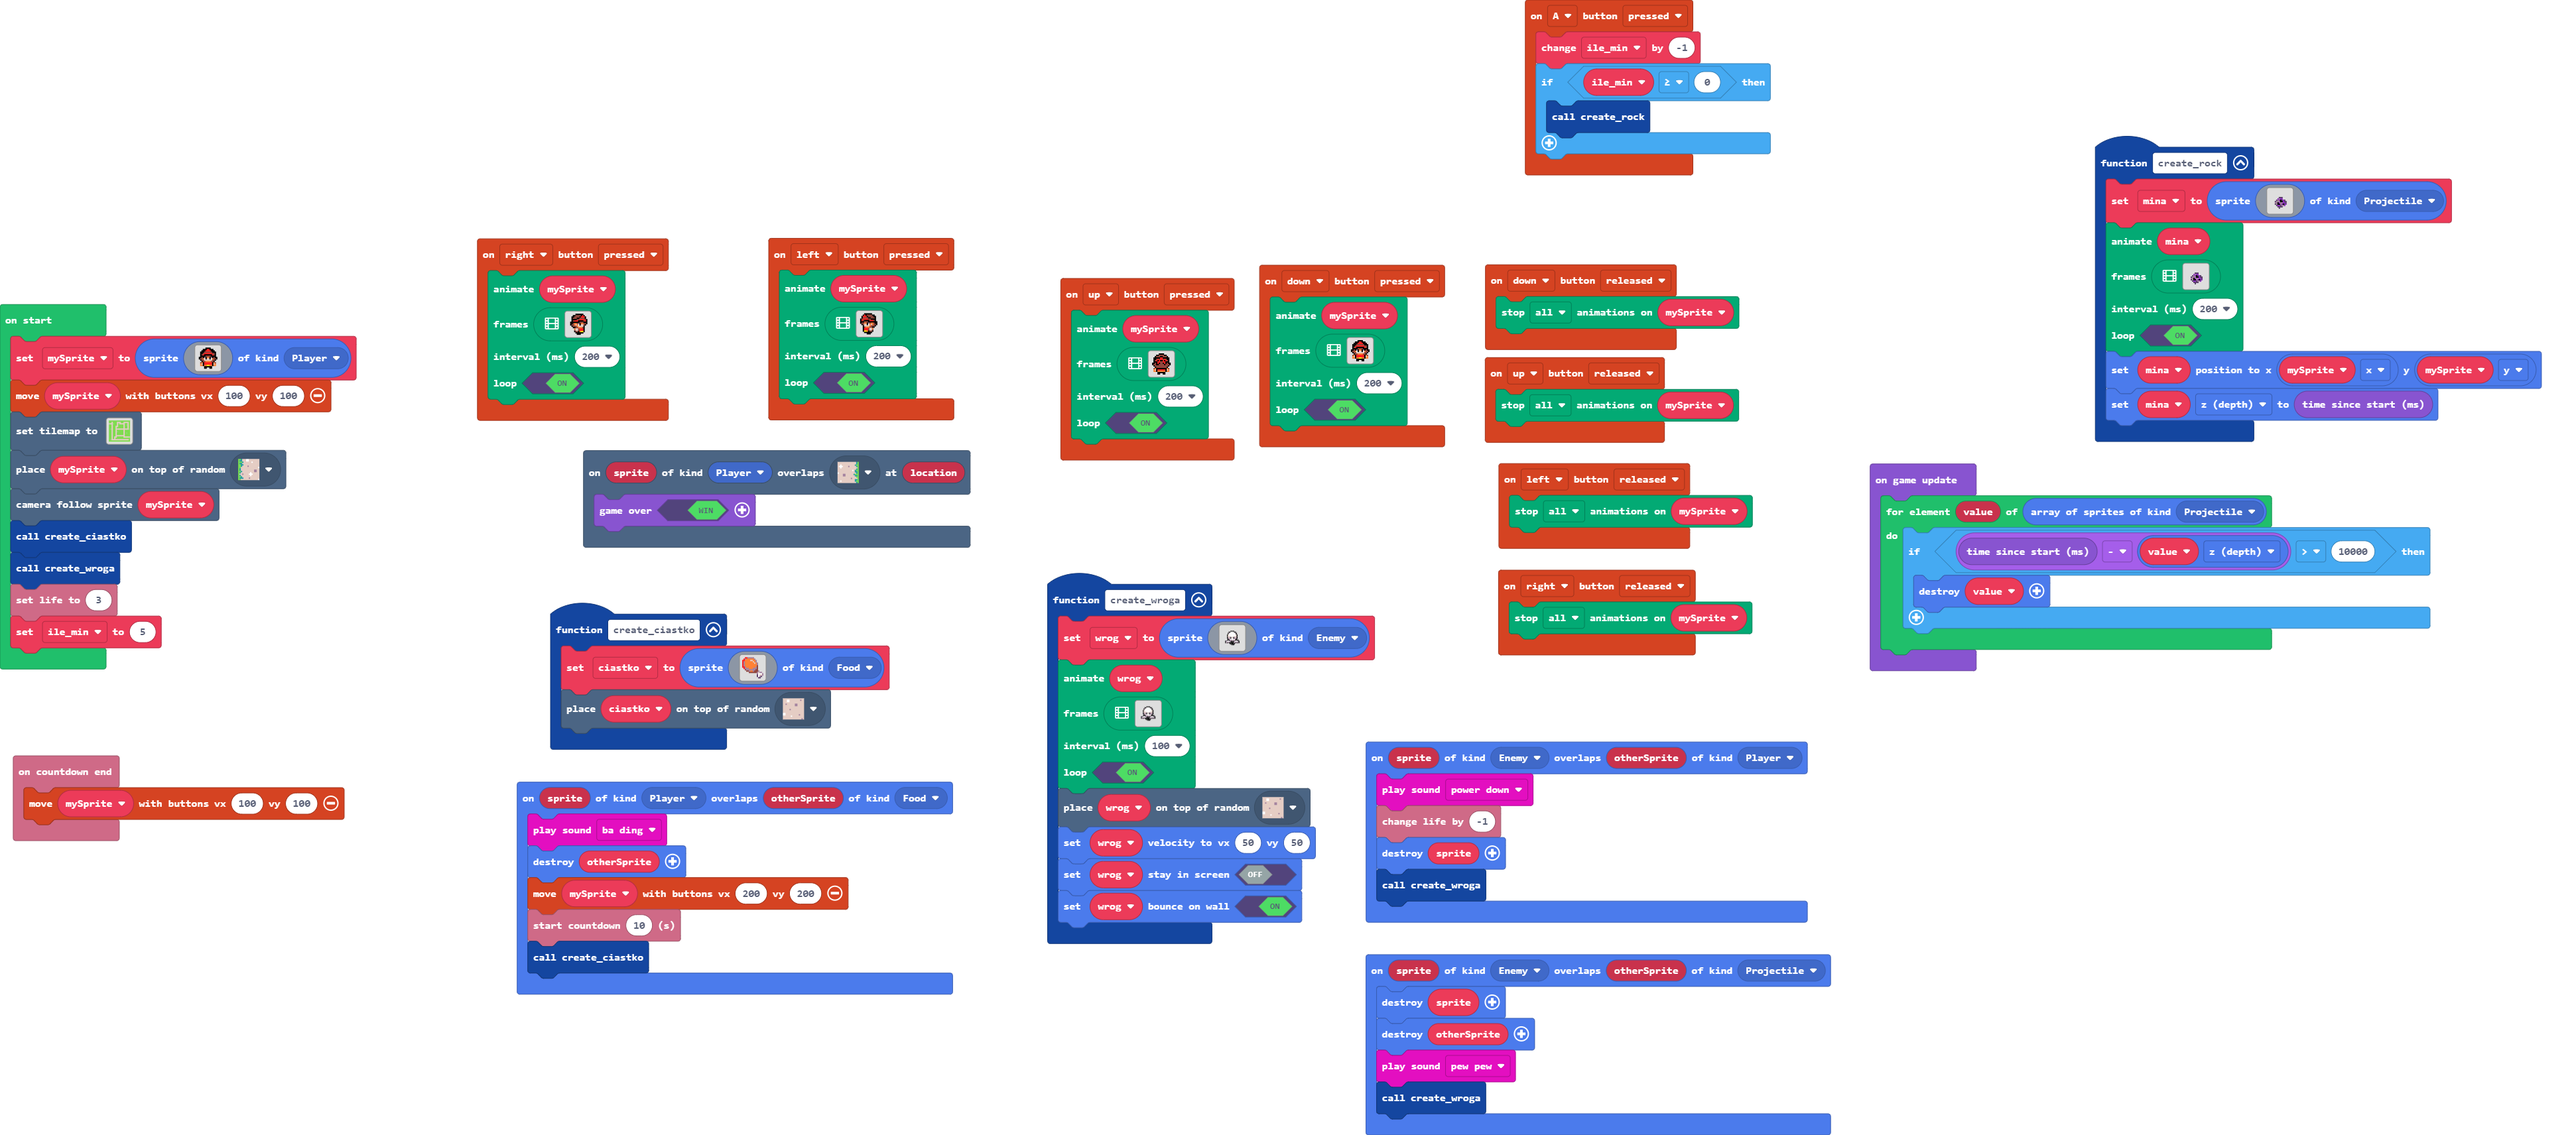
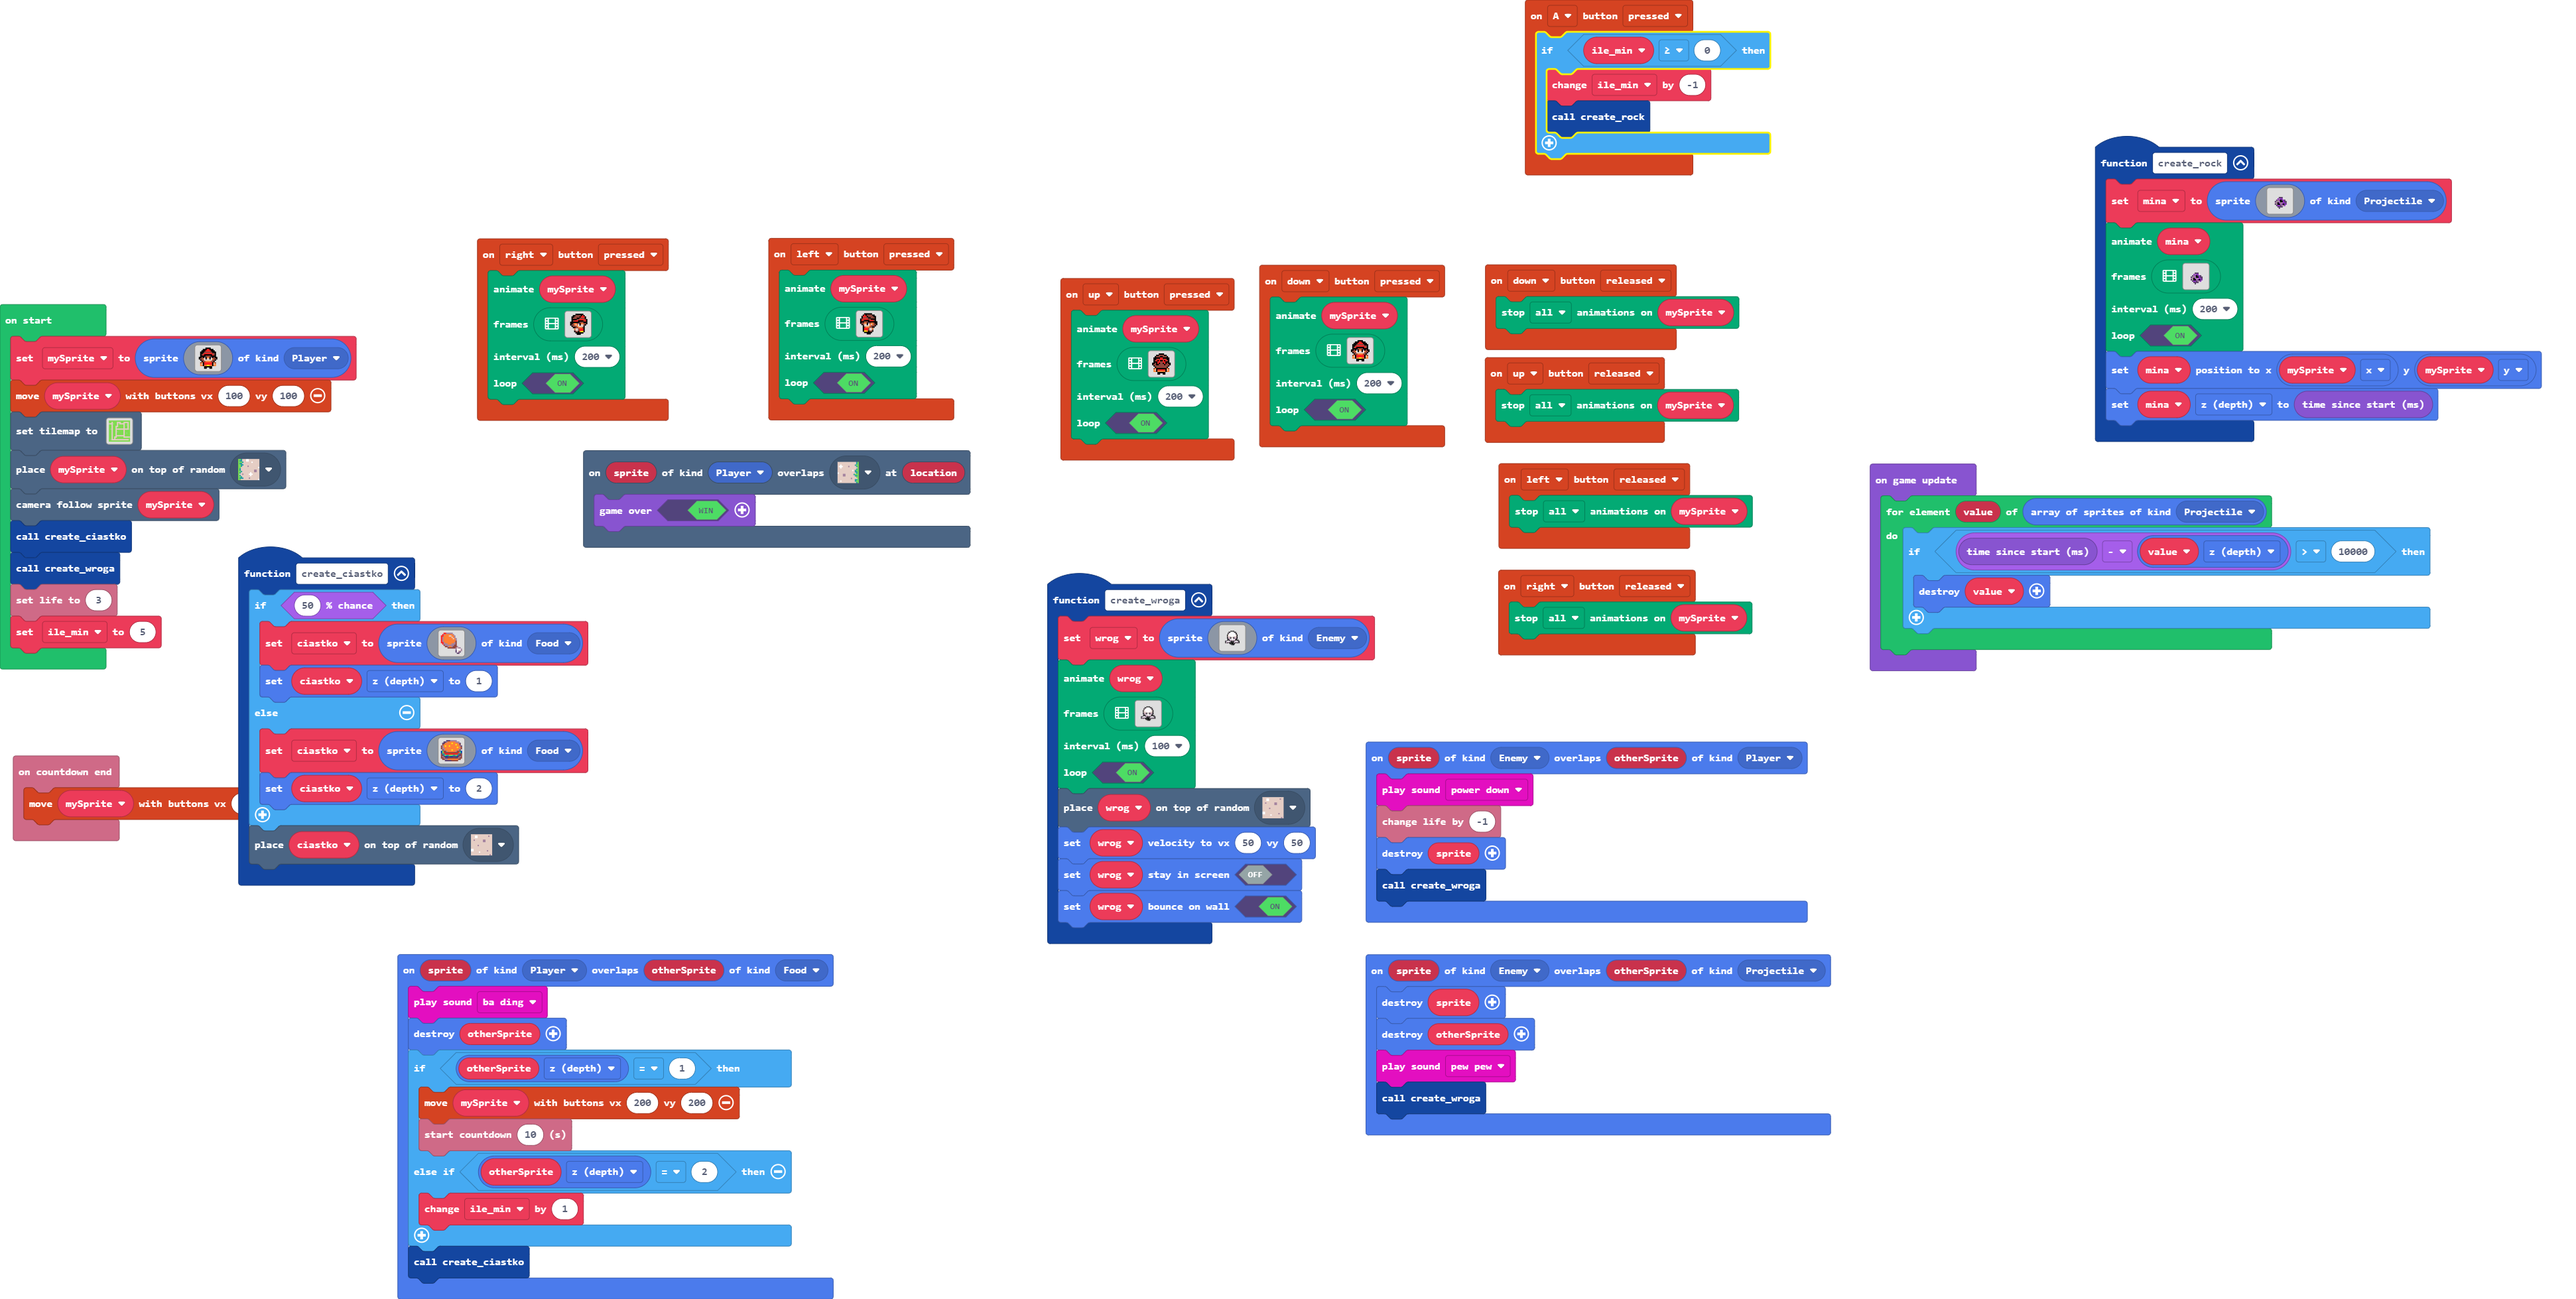
Update main.blocks, main.ts, images.g.jres, images.g.ts

diff --git a/main.ts b/main.ts
@@ -216,8 +216,8 @@ controller.up.onEvent(ControllerButtonEvent.Pressed, function () {
     )
 })
 controller.A.onEvent(ControllerButtonEvent.Pressed, function () {
-    ile_min += -1
     if (ile_min >= 0) {
+        ile_min += -1
         create_rock()
     }
 })
@@ -479,29 +479,56 @@ controller.down.onEvent(ControllerButtonEvent.Pressed, function () {
 sprites.onOverlap(SpriteKind.Player, SpriteKind.Food, function (sprite, otherSprite) {
     music.baDing.play()
     otherSprite.destroy()
-    controller.moveSprite(mySprite, 200, 200)
-    info.startCountdown(10)
+    if (otherSprite.z == 1) {
+        controller.moveSprite(mySprite, 200, 200)
+        info.startCountdown(10)
+    } else if (otherSprite.z == 2) {
+        ile_min += 1
+    }
     create_ciastko()
 })
 function create_ciastko () {
-    ciastko = sprites.create(img`
-        . . 2 2 b b b b b . . . . . . . 
-        . 2 b 4 4 4 4 4 4 b . . . . . . 
-        2 2 4 4 4 4 d d 4 4 b . . . . . 
-        2 b 4 4 4 4 4 4 d 4 b . . . . . 
-        2 b 4 4 4 4 4 4 4 d 4 b . . . . 
-        2 b 4 4 4 4 4 4 4 4 4 b . . . . 
-        2 b 4 4 4 4 4 4 4 4 4 e . . . . 
-        2 2 b 4 4 4 4 4 4 4 b e . . . . 
-        . 2 b b b 4 4 4 b b b e . . . . 
-        . . e b b b b b b b e e . . . . 
-        . . . e e b 4 4 b e e e b . . . 
-        . . . . . e e e e e e b d b b . 
-        . . . . . . . . . . . b 1 1 1 b 
-        . . . . . . . . . . . c 1 d d b 
-        . . . . . . . . . . . c 1 b c . 
-        . . . . . . . . . . . . c c . . 
-        `, SpriteKind.Food)
+    if (Math.percentChance(50)) {
+        ciastko = sprites.create(img`
+            . . 2 2 b b b b b . . . . . . . 
+            . 2 b 4 4 4 4 4 4 b . . . . . . 
+            2 2 4 4 4 4 d d 4 4 b . . . . . 
+            2 b 4 4 4 4 4 4 d 4 b . . . . . 
+            2 b 4 4 4 4 4 4 4 d 4 b . . . . 
+            2 b 4 4 4 4 4 4 4 4 4 b . . . . 
+            2 b 4 4 4 4 4 4 4 4 4 e . . . . 
+            2 2 b 4 4 4 4 4 4 4 b e . . . . 
+            . 2 b b b 4 4 4 b b b e . . . . 
+            . . e b b b b b b b e e . . . . 
+            . . . e e b 4 4 b e e e b . . . 
+            . . . . . e e e e e e b d b b . 
+            . . . . . . . . . . . b 1 1 1 b 
+            . . . . . . . . . . . c 1 d d b 
+            . . . . . . . . . . . c 1 b c . 
+            . . . . . . . . . . . . c c . . 
+            `, SpriteKind.Food)
+        ciastko.z = 1
+    } else {
+        ciastko = sprites.create(img`
+            . . . . c c c b b b b b . . . . 
+            . . c c b 4 4 4 4 4 4 b b b . . 
+            . c c 4 4 4 4 4 5 4 4 4 4 b c . 
+            . e 4 4 4 4 4 4 4 4 4 5 4 4 e . 
+            e b 4 5 4 4 5 4 4 4 4 4 4 4 b c 
+            e b 4 4 4 4 4 4 4 4 4 4 5 4 4 e 
+            e b b 4 4 4 4 4 4 4 4 4 4 4 b e 
+            . e b 4 4 4 4 4 5 4 4 4 4 b e . 
+            8 7 e e b 4 4 4 4 4 4 b e e 6 8 
+            8 7 2 e e e e e e e e e e 2 7 8 
+            e 6 6 2 2 2 2 2 2 2 2 2 2 6 c e 
+            e c 6 7 6 6 7 7 7 6 6 7 6 c c e 
+            e b e 8 8 c c 8 8 c c c 8 e b e 
+            e e b e c c e e e e e c e b e e 
+            . e e b b 4 4 4 4 4 4 4 4 e e . 
+            . . . c c c c c e e e e e . . . 
+            `, SpriteKind.Food)
+        ciastko.z = 2
+    }
     tiles.placeOnRandomTile(ciastko, sprites.castle.tilePath5)
 }
 scene.onOverlapTile(SpriteKind.Player, sprites.castle.tilePath6, function (sprite, location) {

diff --git a/images.g.ts b/images.g.ts
@@ -83,6 +83,24 @@ namespace myImages {
 . . . . . . . . . . . . . . . . 
 . . . . . . . . . . . . . . . . 
 `;
+            case "image5":return img`
+. . . . c c c b b b b b . . . . 
+. . c c b 4 4 4 4 4 4 b b b . . 
+. c c 4 4 4 4 4 5 4 4 4 4 b c . 
+. e 4 4 4 4 4 4 4 4 4 5 4 4 e . 
+e b 4 5 4 4 5 4 4 4 4 4 4 4 b c 
+e b 4 4 4 4 4 4 4 4 4 4 5 4 4 e 
+e b b 4 4 4 4 4 4 4 4 4 4 4 b e 
+. e b 4 4 4 4 4 5 4 4 4 4 b e . 
+8 7 e e b 4 4 4 4 4 4 b e e 6 8 
+8 7 2 e e e e e e e e e e 2 7 8 
+e 6 6 2 2 2 2 2 2 2 2 2 2 6 c e 
+e c 6 7 6 6 7 7 7 6 6 7 6 c c e 
+e b e 8 8 c c 8 8 c c c 8 e b e 
+e e b e c c e e e e e c e b e e 
+. e e b b 4 4 4 4 4 4 4 4 e e . 
+. . . c c c c c e e e e e . . . 
+`;
         }
         return null;
     })
